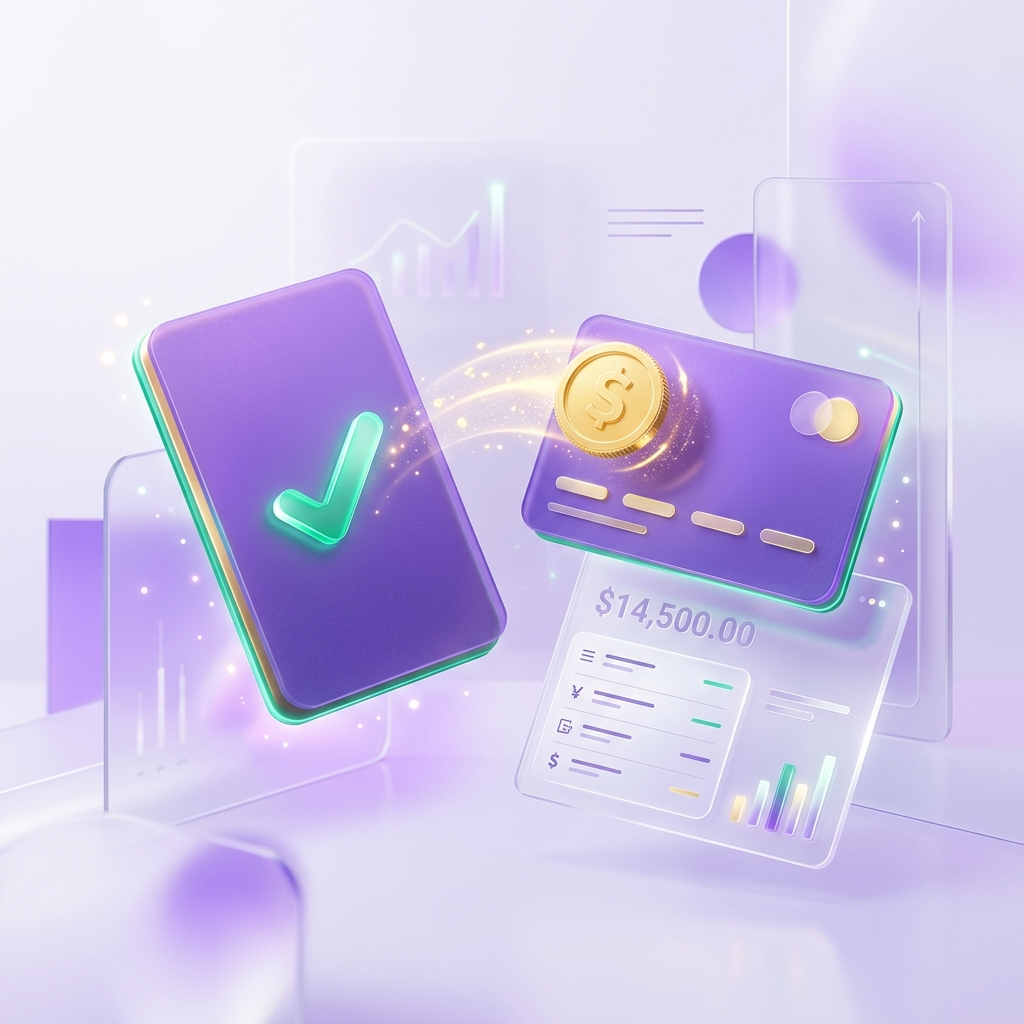
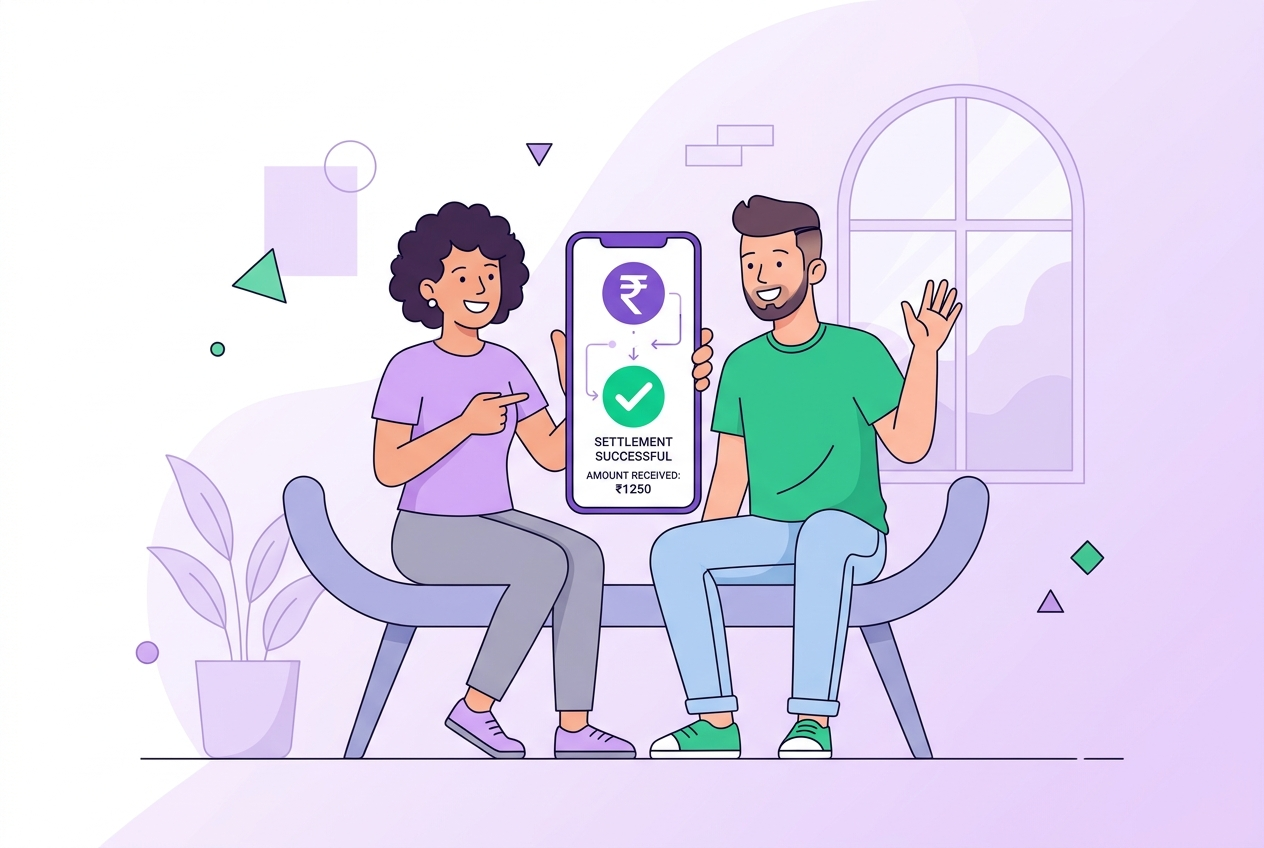
feat(ui): replace credit card illustration with friendly peer lending settlement art

diff --git a/mobile/app/home.tsx b/mobile/app/home.tsx
@@ -214,7 +214,7 @@ const styles = StyleSheet.create({
   },
   heroImageContainer: {
     width: '100%',
-    height: 190,
+    height: 220,
     borderRadius: 22,
     overflow: 'hidden',
     marginBottom: 20,
@@ -225,7 +225,7 @@ const styles = StyleSheet.create({
     shadowOpacity: 0.16,
     shadowRadius: 18,
     elevation: 4,
-    backgroundColor: '#F5F3FF',
+    backgroundColor: '#FFFFFF',
   },
   heroImage: {
     width: '100%',
